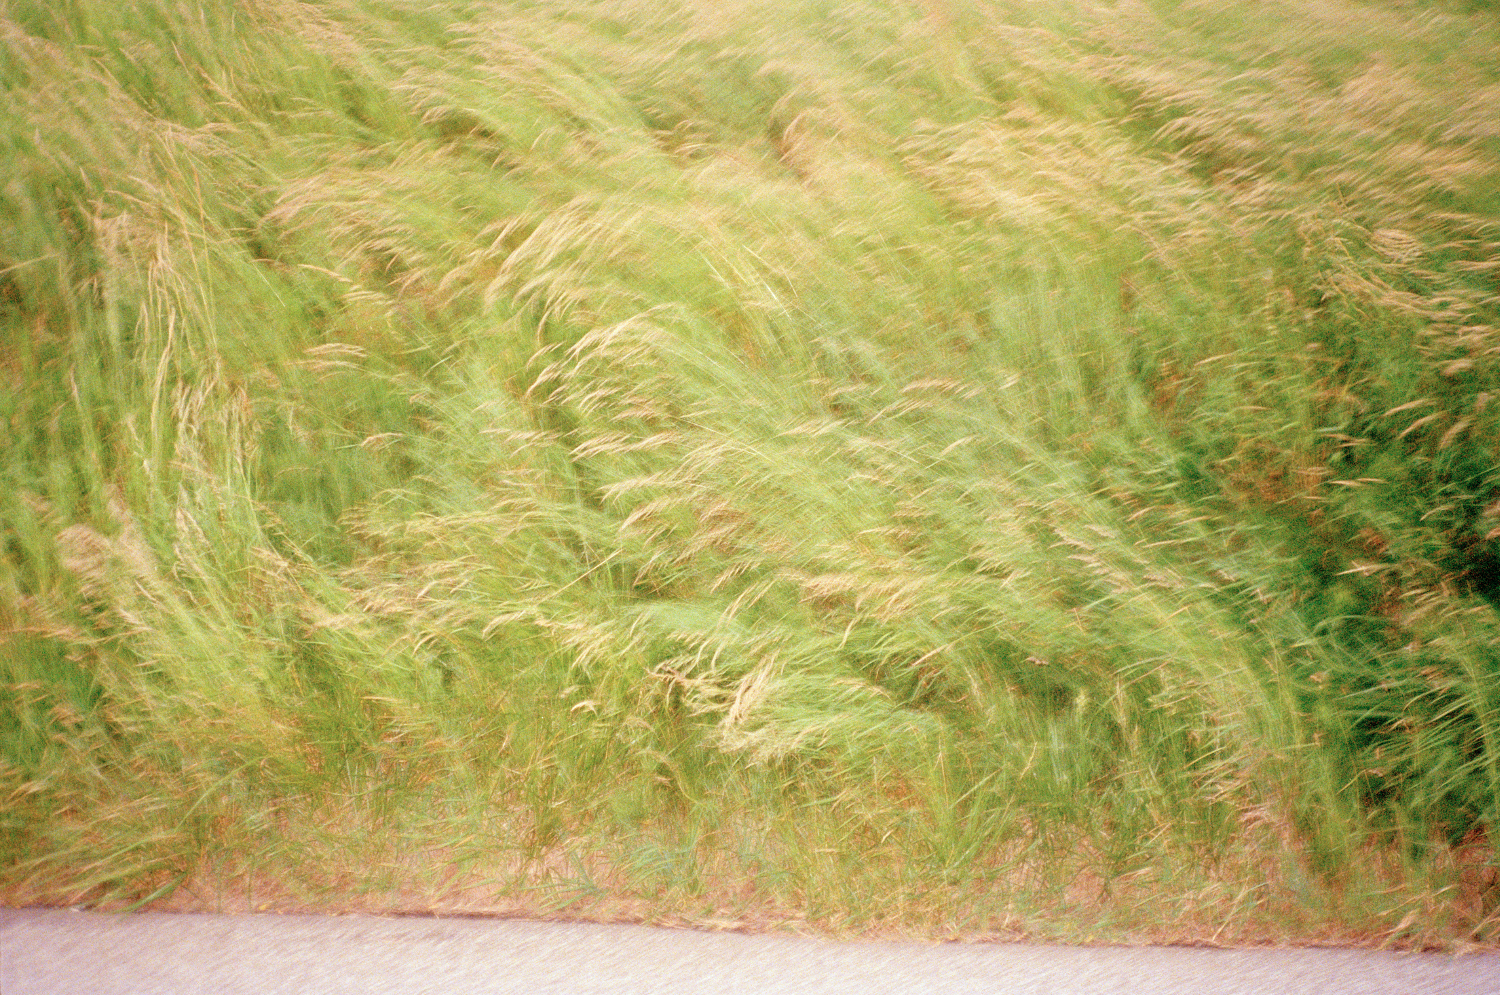
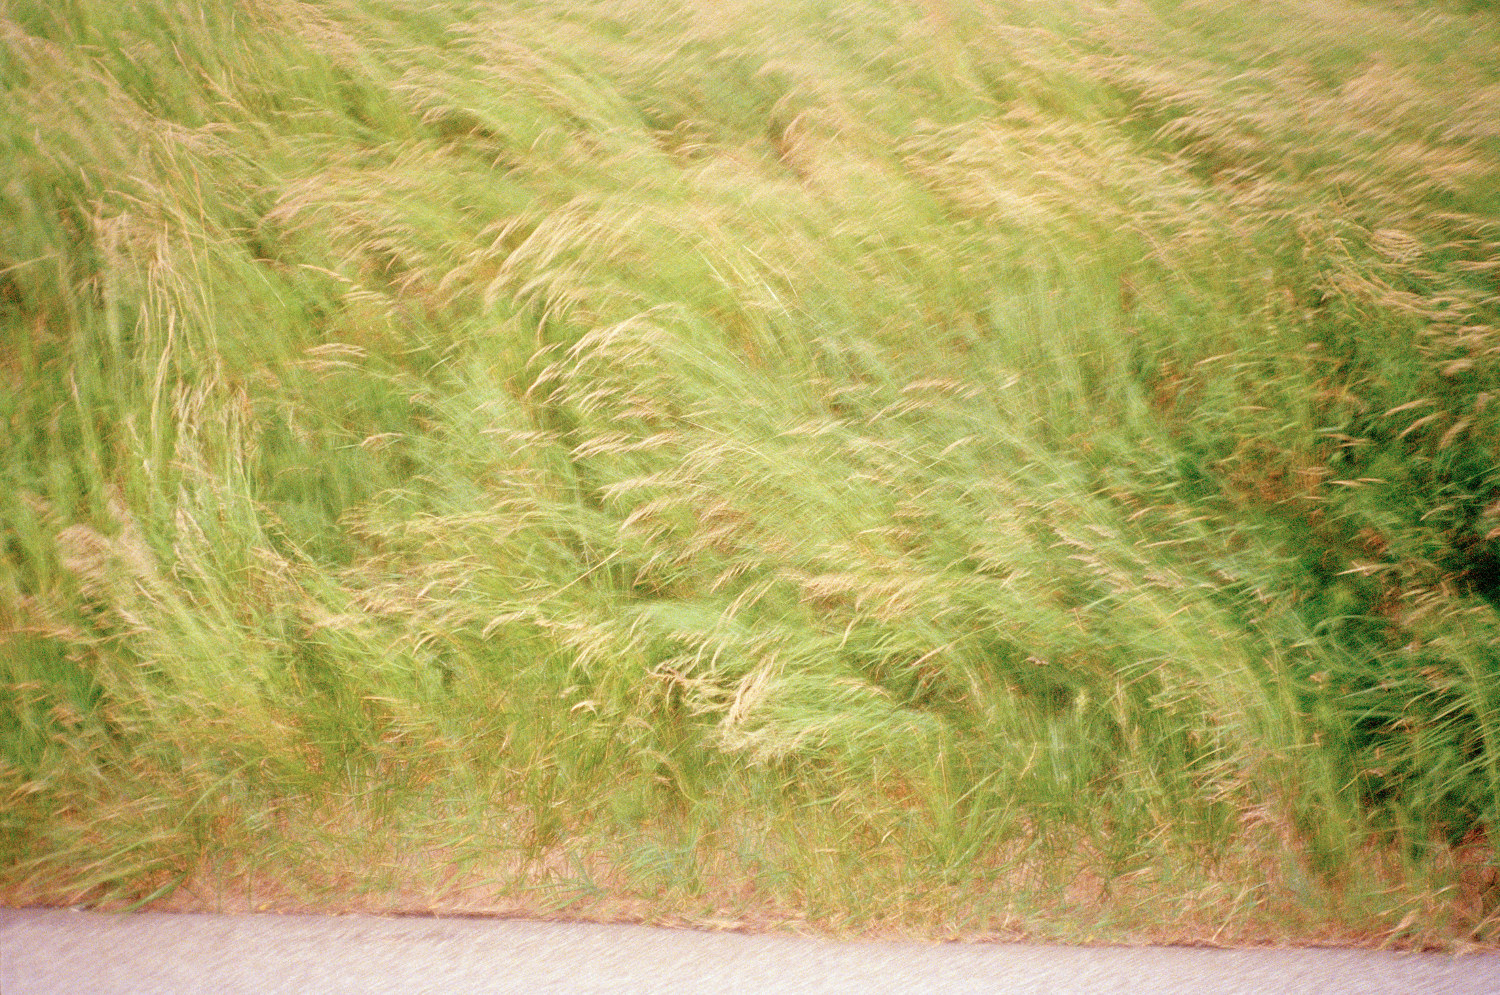
smallerimgs

diff --git a/series1.html b/series1.html
@@ -81,9 +81,9 @@ td.sizec {
 </ul>
 <table><tr><td>" "</td></tr></table><table><tr><td>" "</td></tr></table><table><tr><td>" "</td></tr></table>
 <div style="margin-left:20%; padding:1px 1px;height:1000px;" class="w3-content w3-display-container">
-  <img class="mySlides" src="img/img003copysmall.png" style="width:100%">
+  <img class="mySlides" src="img/img003copysmall.jpg" style="width:100%">
   <img class="mySlides" src="img/img001small1.jpg" style="width:100%">
-  <img class="mySlides" src="img/img004copysmall.png" style="width:100%">
+  <img class="mySlides" src="img/img004copysmall.jpg" style="width:100%">
   <img class="mySlides" src="img/img005copysmall.jpg" style="width:100%">
   <img class="mySlides" src="img/img014copysmall.jpg" style="width:100%">
   
